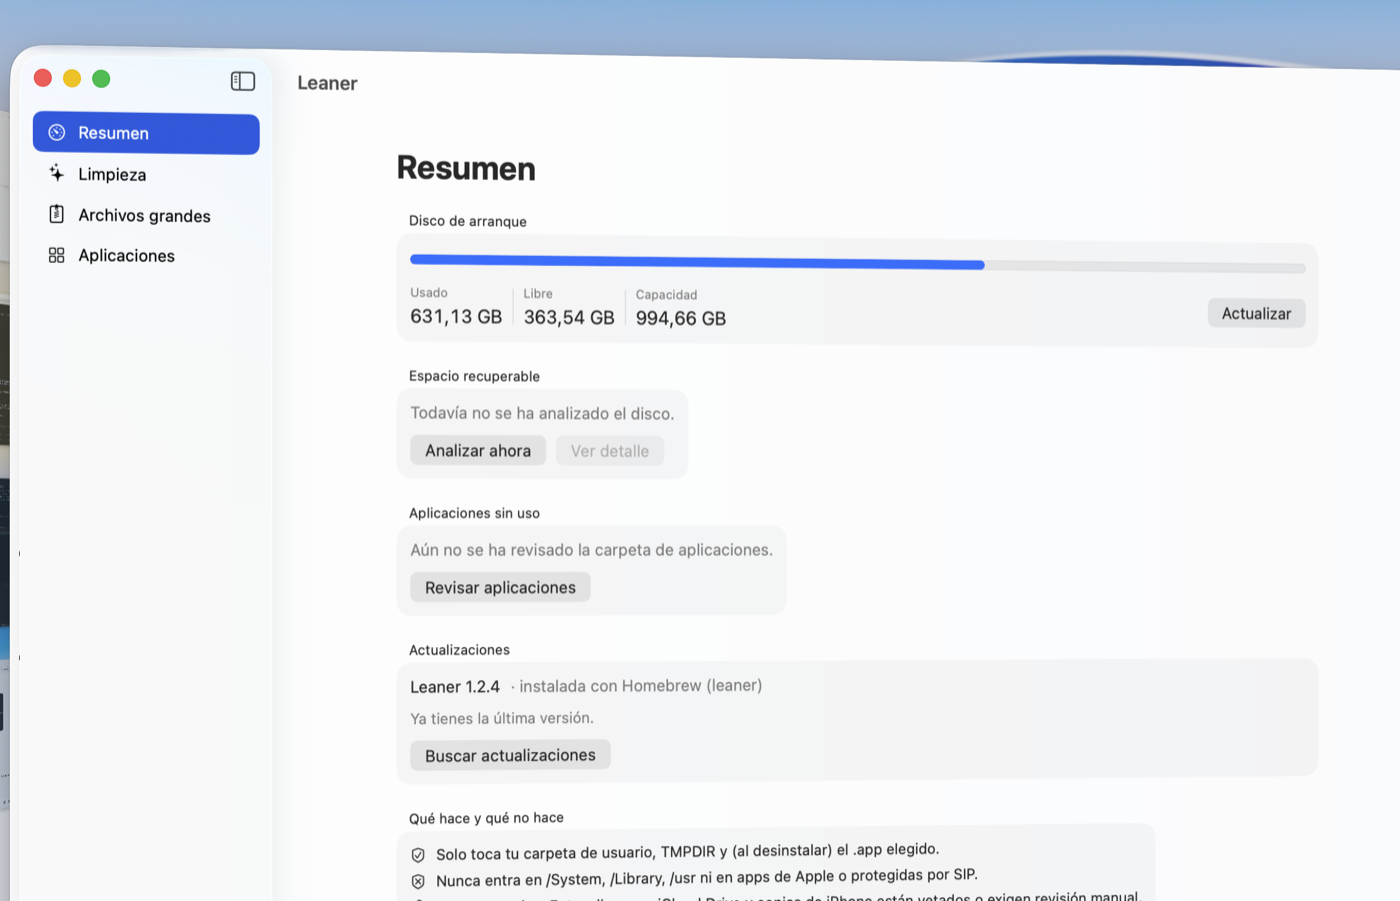
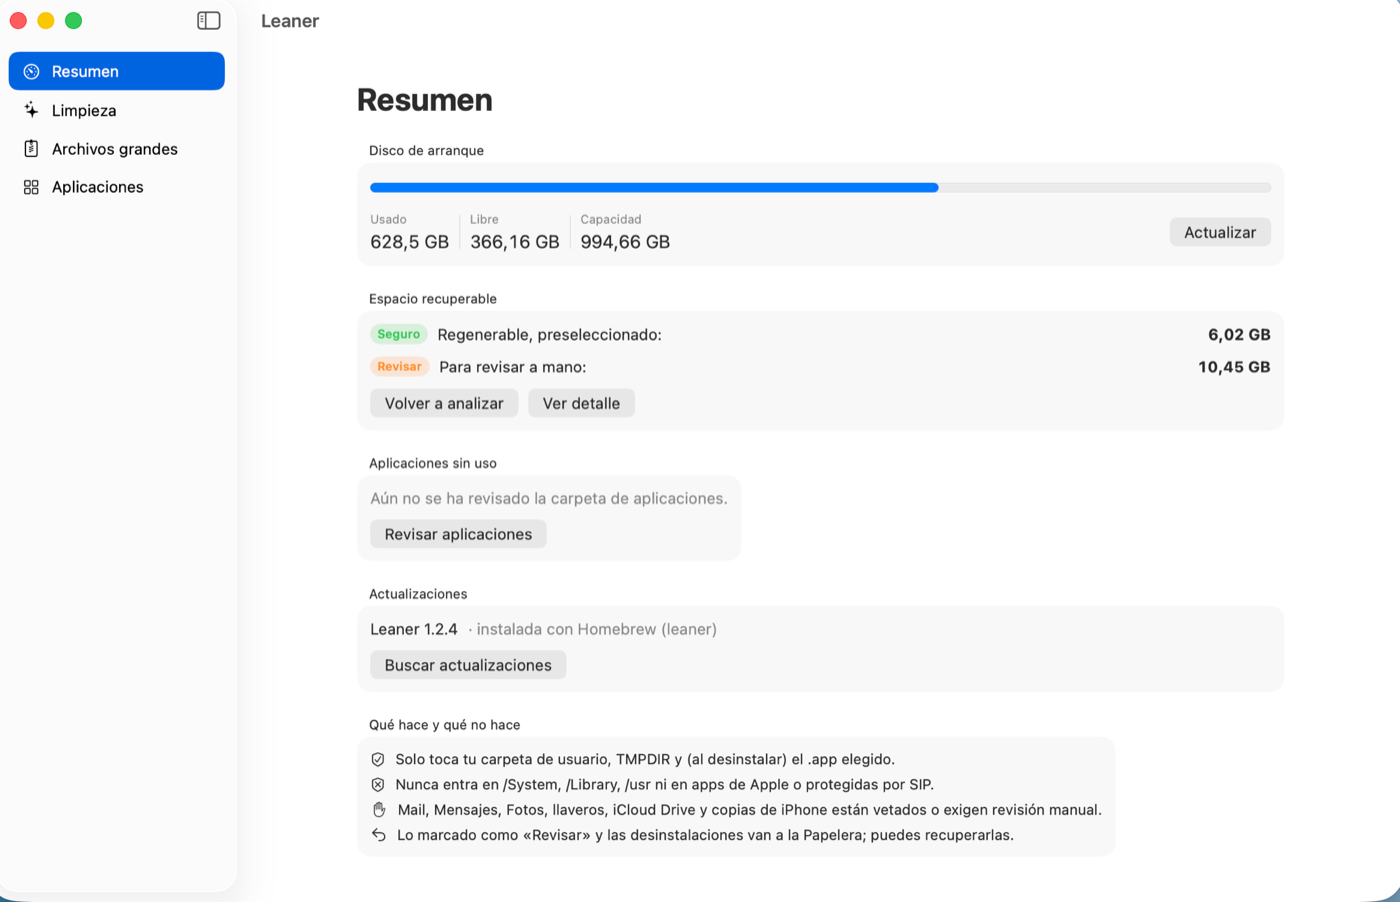
add | capturas del flujo real y matiz sobre las cifras: 29 GB en la primera pasada, ~16 GB recurrentes

Changed region(s): [[0.2457, 0.1554, 0.9521, 1.0], [0.0, 0.0, 1.0, 1.0], [0.9829, 0.9945, 1.0, 1.0]]

diff --git a/docs/index.html b/docs/index.html
@@ -95,7 +95,7 @@ a { color: var(--accent); }
     <a class="btn primary" href="https://github.com/leaner-app/releases/releases/latest/download/Leaner.dmg">Descargar .dmg</a>
     <a class="btn" href="https://github.com/leaner-app/path-policy">Auditar qué borra</a>
   </div>
-  <img class="shot" src="img/resumen.png" alt="Ventana de Leaner mostrando el resumen del disco">
+  <img class="shot" src="img/resumen.png" alt="Resumen de Leaner: disco, espacio recuperable y actualizaciones">
 </header>
 
 <section>
@@ -112,7 +112,7 @@ a { color: var(--accent); }
     Los limpiadores para Mac buscan cachés de navegador y archivos de idioma. En una máquina de
     desarrollo eso es calderilla: lo que ocupa son los repositorios de dependencias, las
     distribuciones descargadas, los índices de compilación y los simuladores. Este es el reparto
-    real en el equipo donde se desarrolla Leaner:
+    real en el equipo donde se desarrolla Leaner, la primera vez que se pasó:
   </p>
   <table>
     <tr><td>Cachés de apps Chromium y Electron (Chrome, VS&nbsp;Code, Slack, Spotify…)</td><td class="num">11,5 GB</td></tr>
@@ -124,6 +124,12 @@ a { color: var(--accent); }
     <tr><td>Cachés del sistema, papelera, descargas, datos de apps desinstaladas…</td><td class="num">~1 GB</td></tr>
     <tr class="total"><td>Total propuesto</td><td class="num">29 GB</td></tr>
   </table>
+  <p class="lead" style="margin-top:16px">
+    Tras esa primera limpieza el mismo equipo sigue proponiendo unos 16 GB: las cachés se
+    regeneran y los repositorios de dependencias vuelven a crecer. Está pensada para volver a
+    pasarla, no para usarla una sola vez.
+  </p>
+  <img class="shot" src="img/limpieza.png" alt="Lista de categorías de limpieza con su tamaño y nivel de riesgo" style="margin-top:20px">
 </section>
 
 <section>

diff --git a/README.md b/README.md
@@ -12,7 +12,9 @@
 </p>
 
 <p align="center">
-  <img src="docs/img/resumen.png" alt="Leaner en macOS" width="820">
+  <img src="docs/img/resumen.png" alt="Resumen de Leaner: disco, espacio recuperable y actualizaciones" width="820">
+  <br><br>
+  <img src="docs/img/limpieza.png" alt="Lista de categorías de limpieza con su tamaño y nivel de riesgo" width="820">
 </p>
 
 ## Instalar
@@ -34,7 +36,7 @@ Los limpiadores de disco para Mac buscan cachés de navegador y archivos de idio
 máquina de desarrollo eso es calderilla: lo que ocupa son los repositorios de dependencias, las
 distribuciones descargadas, los índices de compilación y los simuladores.
 
-En el equipo donde se desarrolla Leaner, el reparto real es este:
+En el equipo donde se desarrolla Leaner, la primera medición dio esto:
 
 | | |
 |---|---|
@@ -46,6 +48,10 @@ En el equipo donde se desarrolla Leaner, el reparto real es este:
 | Registros del daemon de Gradle | 1,2 GB |
 | Resto (cachés del sistema, papelera, descargas, datos de apps desinstaladas…) | ~1 GB |
 | **Total propuesto** | **29 GB** |
+
+Tras esa primera limpieza, el mismo equipo sigue proponiendo unos 16 GB: las cachés se
+regeneran y los repositorios de dependencias vuelven a crecer. Por eso la app está pensada para
+volver a pasarla, no para usarla una vez.
 
 ## Qué limpia
 
